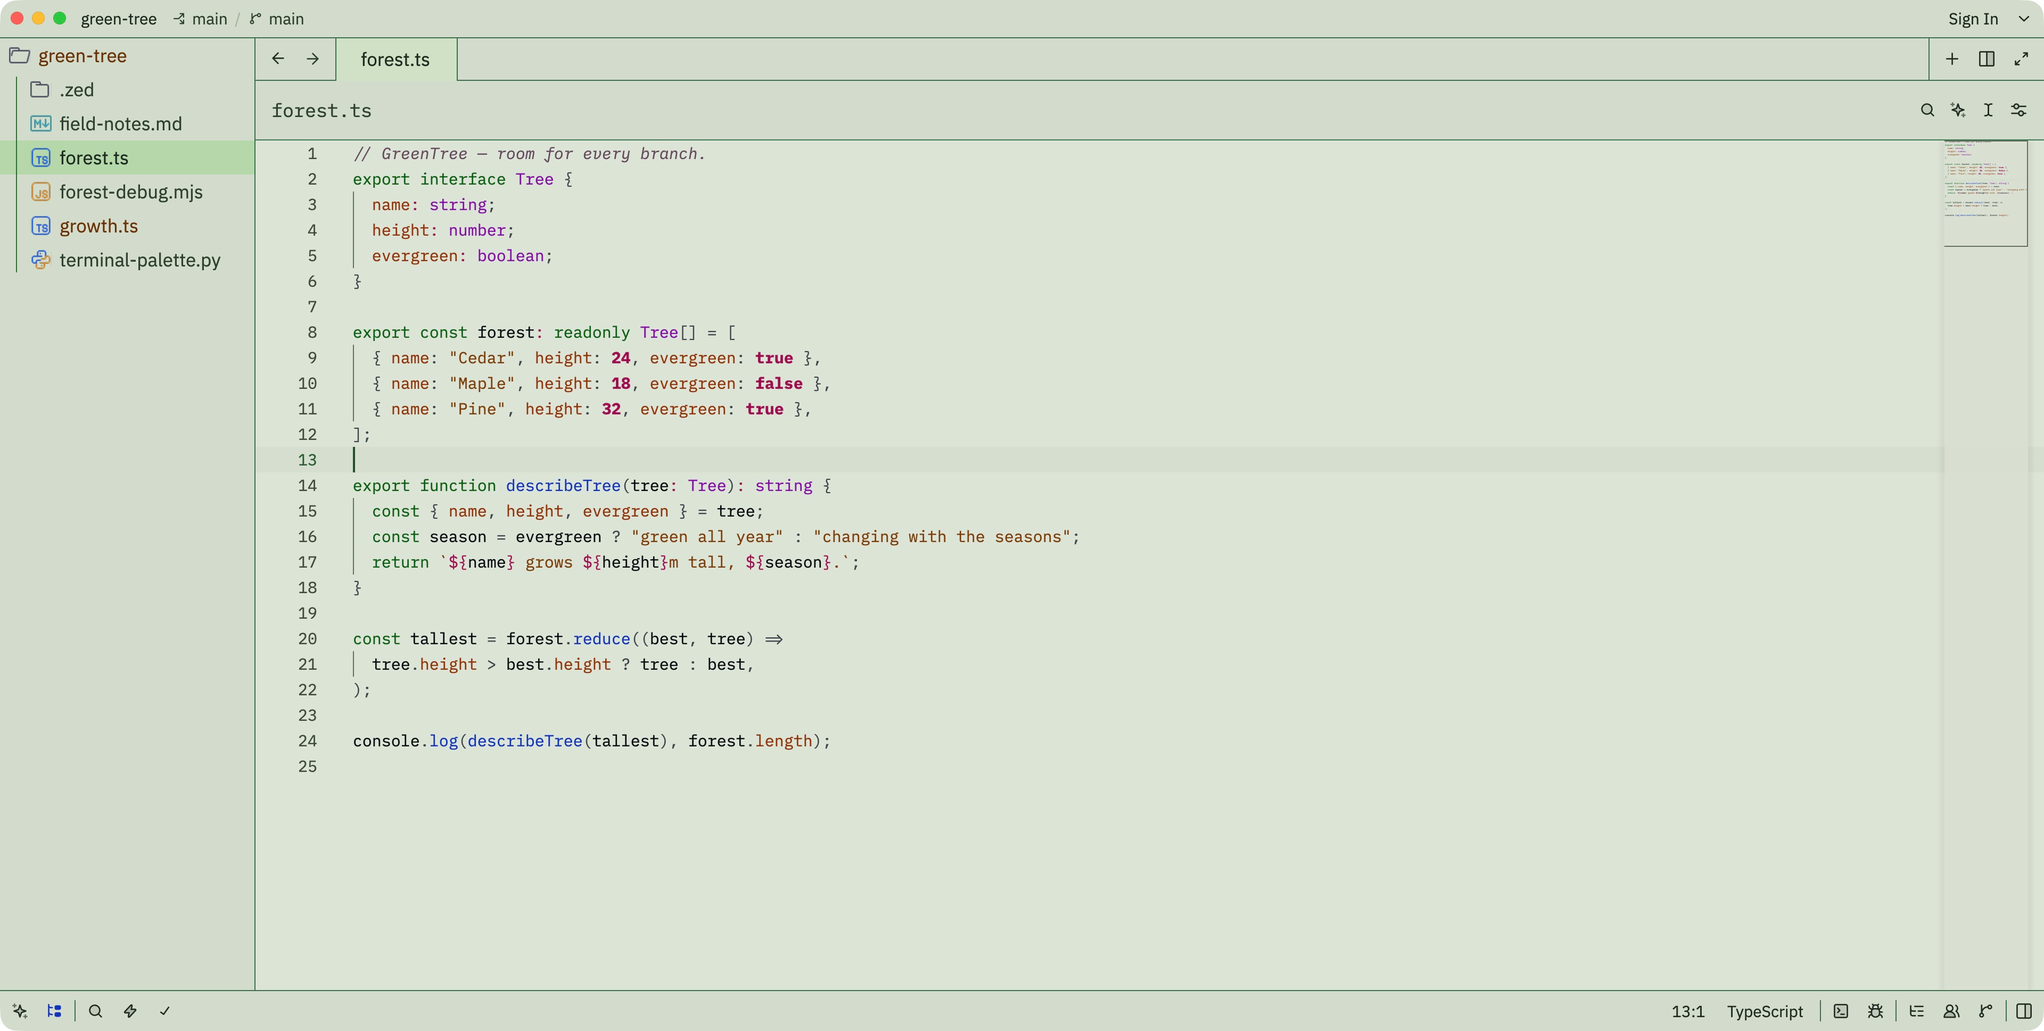
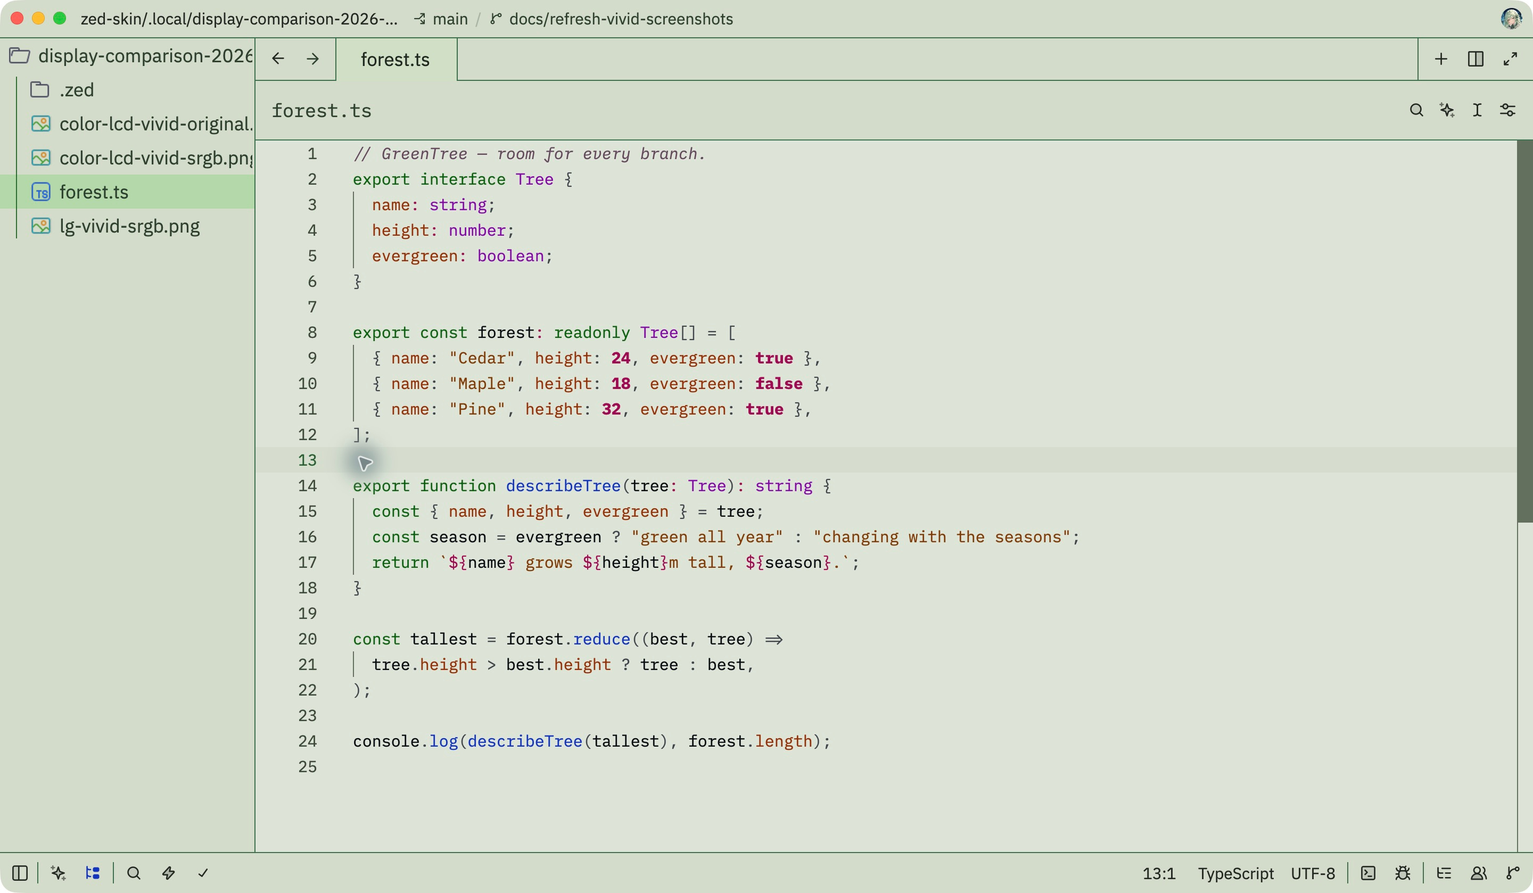
📝 docs(screenshots): use local Vivid previews and simplify documentation
✏ Replace the Day Vivid code preview with a built-in display screenshot, preserving sRGB and existing image links
  ✏ Simplify the three READMEs and color and testing documentation; consolidate screenshot sources and measurement limitations
  ✏ Update manual acceptance records and retain the pending physical-display comparison

diff --git a/docs/screenshots/README.md b/docs/screenshots/README.md
@@ -1,33 +1,30 @@
 # Screenshot gallery
 
-The English, Chinese and Japanese READMEs share these 24 English screenshots:
-six scenes in each of GreenTree's four variants. The editor overviews are visible
-immediately. The other five scenes each have a collapsible two-column comparison,
-ordered Midnight AAA, Night AAA, Day AAA, Day Vivid. The comparison images fill
-their columns without a fixed pixel width. Every preview links to its original.
-Theme links above the overview provide quick navigation between the four variants.
-
-All 24 images were refreshed on **2026-10-25** in **Zed 1.25.3 on macOS
-27.0.1**, using the repository palette at
+The three READMEs share 24 English screenshots: six scenes in each of GreenTree's
+four variants. They were refreshed on **2026-10-25** in **Zed 1.25.3 on macOS
+27.0.1**, using the palette at
 [`7caf432`](https://github.com/yuukiLike/zed-skin/commit/7caf43209904ce663f0f2e9fbe0f154a0b85bfc1).
-This includes the latest Day Vivid keywords, orange properties, muted plum
-comments and Markdown accents. The extension metadata is still **0.11.2**; the
-existing image URLs, including the `v0.11.2/` folder, are retained.
-
-Each scene uses the same English sample and layout across all four variants.
-All images are **3840 × 1938**. Native JPEG originals carry the capture display's
-**LG ULTRAFINE** ICC profile. The published JPEGs are converted from that profile
-to **sRGB IEC61966-2.1**, with the sRGB ICC profile embedded and JPEG quality 95
-without chroma subsampling. There is no manual recoloring, compositing or resizing.
-The originals remain untouched in the ignored local evidence folder. File icons,
-pointer/input indicators and window decorations belong to the capture environment,
-not the theme extension.
-
-The capture session uses a separate Zed user-data directory and a small local Git
-repository. Editor/UI font sizes are 17/18; terminal font size is 16. The theme
-file is an exact copy of `themes/green-tree.json`, SHA-256
+The extension remains **0.11.2**; existing image URLs, including `v0.11.2/`, are retained.
+The captured theme matches `themes/green-tree.json`, SHA-256
[1 lines of base64/hex data omitted]
-The regular Zed configuration and display settings were not changed.
+
+## Capture sources
+
+| Images | Display | Dimensions | Native ICC |
+| --- | --- | --- | --- |
+| Day Vivid editor overview | Built-in Color LCD | 2880 × 1678 | Display |
+| Other 23 images | LG ULTRAFINE | 3840 × 1938 | LG ULTRAFINE |
+
+The Day Vivid overview uses the local capture selected by the user after a
+same-screen comparison. It shows the same code sample in a separate window with
+the regular Zed profile (editor/UI sizes 15/20). The LG session used isolated
+user data and a small Git fixture (editor/UI sizes 17/18; terminal size 16).
+No theme fields, regular Zed settings or display settings were changed.
+
+Published JPEGs are converted from each source ICC to embedded sRGB, at quality
+95 without chroma subsampling. There is no resizing, compositing or manual
+recoloring. File icons, pointer indicators and window decorations belong to the
+capture environment.
 
 | Scene | Midnight AAA | Night AAA | Day AAA | Day Vivid |
 | --- | --- | --- | --- | --- |
@@ -38,37 +35,27 @@ The regular Zed configuration and display settings were not changed.
 | Git diff | [View](v0.11.2/midnight-git-diff.jpg) | [View](v0.11.2/night-git-diff.jpg) | [View](v0.11.2/day-aaa-git-diff.jpg) | [View](v0.11.2/day-vivid-git-diff.jpg) |
 | Terminal and ANSI colors | [View](v0.11.2/midnight-terminal.jpg) | [View](v0.11.2/night-terminal.jpg) | [View](v0.11.2/day-aaa-terminal.jpg) | [View](v0.11.2/day-vivid-terminal.jpg) |
 
-The debugger shows a live Node.js session paused at `debugger;`, with an enabled
-breakpoint, inline values, the selected stack frame and local variables. The Git
-view shows actual uncommitted changes. The terminal shows real normal, bright
-and dim ANSI output, black/white backgrounds, reverse video, Node.js output and
-`git diff` output. Zed's terminal contrast adjustment remains enabled; the image
-therefore includes the editor's adjustment of Day Vivid's black-on-green text.
+The debugger shows a live Node.js pause at `debugger;`, with a green execution
+row, breakpoint, inline values, selected frame and locals. Git views show actual
+uncommitted changes. Terminal captures include normal/bright/dim ANSI, reverse
+video and Zed's enabled contrast adjustment. These scenes do not replace the
+broader [regression checks](../theme-testing.md).
 
-These previews illustrate everyday appearance; the broader regression coverage
-and its limitations are documented in [Theme checks](../theme-testing.md).
-The original 24 captures, setup attempts, isolated demonstration workspace,
-conversion script and per-image hashes/profile measurements remain Git-ignored
-under `.local/readme-refresh-2026-10-25/`. The debug session was stopped and the
-isolated editor instance closed after capture.
+Originals and capture evidence stay Git-ignored under
+`.local/readme-refresh-2026-10-25/` (LG session, on the capture computer) and
+`.local/display-comparison-2026-10-25/` (local capture and comparison).
 
 ## Color across computers
 
-Embedding sRGB makes the published images easier to interpret consistently,
-but it cannot guarantee identical appearance on every physical display.
-The original LG-profile Vivid screenshot's flat editor background is
-approximately RGB `(216, 224, 209)`; after conversion to sRGB it is
-`(220, 228, 213)`, close to the theme's `#DCE4D6` / `(220, 228, 214)`.
-The one-level difference is consistent with the JPEG capture/export precision;
-this is a file-pixel check, not a measurement of the physical display.
-RGB numbers from different ICC spaces should not be compared directly.
-[Apple's color-management explanation](https://developer.apple.com/library/archive/technotes/tn2313/_index.html)
-describes why the profile is part of the color's meaning.
+The LG Vivid overview and local capture were compared after ICC conversion to
+sRGB. A 120,000-pixel flat-background sample measured `(220, 228, 213)` for LG
+and `(221, 228, 215)` for the local lossless conversion. The local published JPEG
+measures `(221, 227, 215)` after encoding; the theme specifies `(220, 228, 214)`.
+Nine syntax samples differed by at most 5/255 per-channel median before that
+final export. These are sampled file pixels, including antialiasing and JPEG
+effects; they do not establish whole-image equality or physical-display accuracy.
 
-For future captures, retain the original file and its ICC profile, preferably
-as lossless PNG, then convert pixels to sRGB before embedding the target profile.
-Assigning a new profile without conversion changes the interpretation of the
-existing pixels. Avoid chat-app recompression for color comparisons.
-The [cross-computer checklist](../../human-todo.md#截图与跨电脑色差) separates
-file differences from display differences. Only this Mac/LG setup was exercised;
-a second computer and calibrated side-by-side display measurements remain pending.
+Retain original ICC profiles, then convert pixels to sRGB rather than replacing
+the profile label. Identical files can still look different across physical
+displays. See [Apple's color-management explanation](https://developer.apple.com/library/archive/technotes/tn2313/_index.html)
+and the [physical-display checklist](../../human-todo.md#截图与跨电脑色差).

diff --git a/human-todo.md b/human-todo.md
@@ -12,61 +12,18 @@ macOS / VS Code 键位（含本机自定义）；`⌘` = Command，`⇧` = Shift
 
 ## 截图与跨电脑色差
 
-**结论：可能存在色差。需要区分截图文件中的颜色差异，以及显示器呈现同一文件时的观感差异。**
+截图文件相近不代表两块实体屏幕观感相同。[截图来源与测量结果](docs/screenshots/README.md#color-across-computers)。
 
-| 比较方式 | 可能出现的差异 | 如何判断 |
-| --- | --- | --- |
-| 同一张原图，在两台电脑上看 | 显示器色域、校准、亮度、白点、观看环境，以及查看软件的色彩管理 | 先核对文件 SHA-256 相同，再比较显示条件；文件相同仍可能看起来不同 |
-| 相同主题，在两台电脑上分别截图 | 捕获链路与 ICC 色彩配置可能不同；字体、缩放、抗锯齿和编辑器设置也会改变像素 | 保留原始 ICC，正确转换到同一色彩空间，再在同一显示器上比较 |
-| 截图经聊天软件、缩略图或另存后再比较 | 重采样、JPEG 压缩或丢失 ICC 配置可能改变像素或其解释 | 使用下载的原图，避免比较聊天预览 |
+- [x] 2026-10-25：将 LG 与本机 Color LCD 的 Vivid 截图按 ICC 转为 sRGB，在同一屏上比较。
+  用户认为两者接近，更喜欢本机版本，并选择本机代码截图发布。
+- [ ] MacBook Air 与 LG：使用相同主题和样例，记录版本、字体/字号、缩放及 ICC，复测绿色关键字与近黑变量。
 
-RGB 数值必须连同色彩空间一起理解。两张图的原始 RGB 不同，不足以证明主题颜色不同；
-同一个十六进制数在不同色彩空间中也不一定表示相同颜色。ICC 色彩管理用于把源图映射到目标显示器，
-但不能保证不同硬件和观看条件下的观感完全一致。
-[Apple 色彩管理说明](https://developer.apple.com/library/archive/technotes/tn2313/_index.html)、
-[Apple 图像色彩配置建议](https://developer.apple.com/design/human-interface-guidelines/color?changes=_5_2)。
+1. 比较同一文件时先核对 SHA-256；分别截图时保留原图与 ICC，优先无损 PNG，转为 sRGB 后再同屏比较。避免聊天软件重压缩。
+2. 实屏对比时暂停 True Tone、Night Shift、自动亮度和色彩滤镜，尽量匹配实际亮度与环境光；相同亮度百分比不代表相同亮度。
+   这些显示效果不能仅凭截图验收。[Apple 显示工作流说明](https://support.apple.com/en-ca/guide/mac-help/mhlp275mr4b19/mac)。
+3. 先看纯背景，再看字形内部与长期使用的可辨性、舒适度，避免将文字边缘抗锯齿当作主题色差。
 
-True Tone 会随环境调整色温，Night Shift 会使显示偏暖，都会影响肉眼判断。
-截图也不能可靠反推出实际屏幕亮度、环境光或所有显示端效果，因此“截图看着一样”不能替代实屏验收。
-做受控比较时先关闭这些自动调整，日常舒适度再按自己的常用设置另行判断。
-[Apple 显示工作流说明](https://support.apple.com/en-ca/guide/mac-help/mhlp275mr4b19/mac)。
-
-### 本次已验证 · 2026-10-25
-
-在一台 macOS 27.0.1、Zed 1.25.3、LG ULTRAFINE 显示器的环境中，
-四款主题各检查了代码、Markdown、搜索与选区、Git 差异、终端和真实暂停的 Node.js 调试器，共 24 张图。
-调试执行行均为绿色；停止调试后执行行与内联值已消失。
-截图使用隔离的 Zed 配置与示例项目，未调整日常编辑器或显示器设置。
-
-原始截图接口输出带 `LG ULTRAFINE` ICC 的 JPEG；原图保存在 Git 忽略的
-`.local/readme-refresh-2026-10-25/raw/`，并非直接的 sRGB 数值。
-以 Vivid 代码图的纯背景像素 `(3000, 1100)` 为例：原图 RGB 是 `(216, 224, 209)`，
-正确转换到 sRGB 后，公开图为 `(220, 228, 213)`，接近主题定义的 `#DCE4D6` / `(220, 228, 214)`。
-这里验证的是文件像素和配置，存在 JPEG 与转换精度的影响，未测量实体显示器的色差值。
-
-README 的 24 张公开图现已统一转换并内嵌 `sRGB IEC61966-2.1`，减少由图片色彩空间不同带来的解读差异。
-转换必须先按原 ICC 计算目标像素，不能只把配置标签改成 sRGB。
-第二台电脑、MacBook Air 与 LG 的受控对比仍未实测，当前不能承诺两台电脑无色差。
-[公开截图与来源](docs/screenshots/README.md)。
-
-### 下一次跨电脑对比
-
-1. 两台电脑使用相同的 `themes/green-tree.json`，记录 `shasum -a 256 themes/green-tree.json`、
-   Zed 版本、字体与字号、缩放、显示器型号和 ICC 配置；重新加载主题后打开同一个代码样例。
-2. 先下载同一张 README 原图，在两台电脑以 100% 查看并核对图片 SHA-256。
-   暂停 True Tone、Night Shift、自动亮度及色彩滤镜，选择合适的显示器配置，尽量匹配实际亮度与环境光。
-   相同的亮度百分比不代表相同的实际亮度。
-3. 两台电脑分别保存原始截图，优先使用无损 PNG 并保留 ICC，避免聊天软件压缩。
-   把两张图按各自的源 ICC 转换到 sRGB，然后放到同一台显示器、同一查看软件中比较。
-   先比较无文字的背景，再看绿色关键字与近黑变量；不要把文字边缘的抗锯齿像素当作主题色。
-4. 同图在两块屏上不同，优先排查显示与查看条件；两份截图在同一屏上仍不同，
-   再排查主题缓存、编辑器设置、ICC 与捕获链路。以实际使用时关键字能否与变量区分、长时间是否舒适作为验收依据。
-
-- [ ] MacBook Air：记录显示配置并比较 Vivid 绿色关键字与近黑变量。
-- [ ] LG：以相同样例、配色文件与受控亮度复测；本次截图不替代用户实屏验收。
-- [ ] 在同一显示器上比较两台电脑保留 ICC 并转换后的原始截图。
-
-记录格式：`电脑 / 显示器｜Zed 与主题哈希｜ICC / 亮度 / 环境｜同图观感｜同屏双图差异｜原图路径`。
+记录：`电脑 / 显示器｜Zed 与主题哈希｜ICC / 亮度 / 环境｜同图观感｜同屏双图差异｜原图路径`。
 
 ## 功能验收
 

diff --git a/docs/theme-testing.md b/docs/theme-testing.md
@@ -95,34 +95,18 @@ cannot give selected and hovered stack frames different fills in this Zed versio
 
 ## README refresh and color profiles · 2026-10-25
 
-All 24 public screenshots were recaptured in Zed 1.25.3 on macOS 27.0.1 with
-the current repository theme, copied byte-for-byte into an isolated Zed
-user-data directory. Each of the four variants was inspected in six scenes:
-TypeScript, source search/selection, rendered Markdown, actual Git changes,
-terminal/ANSI output and a live Node.js pause. The debugger shows the green
-execution row, enabled breakpoint, inline values, selected frame and locals.
-After stopping, the green band and inline values disappeared; the debugger
-retained its last-known variables. The session and isolated editor were closed.
+The gallery covers all four variants in six scenes: TypeScript, search/selection,
+Markdown, Git changes, terminal/ANSI and a live Node.js pause with green execution
+highlights. The LG session confirmed that execution highlights and inline values
+disappeared after stopping. The user selected the built-in Color LCD capture to
+replace the Day Vivid editor overview after comparing both sources in sRGB.
+[Capture notes](screenshots/README.md) retain the source profiles, dimensions,
+theme fingerprint and sampled color differences.
 
-The capture interface returns native JPEGs with the LG ULTRAFINE ICC profile.
-Published copies use an ICC conversion to embedded sRGB, with no layout changes
-or manual recoloring. All 24 exports retain 3840 × 1938 dimensions; their ICC
-profiles, editor-background samples and four debugger-row samples were checked
-against the loaded palette, allowing three 8-bit levels for JPEG/color-conversion
-rounding. The [capture notes](screenshots/README.md) describe the conversion and
-source theme fingerprint. Raw images, the fixture, scripts and a per-image
-hash/profile manifest remain under the ignored
-`.local/readme-refresh-2026-10-25/` directory.
-
-The existing 62 Python tests and enforced four-palette audit pass, and the
-generated contrast report matches the committed report. Advisory REVIEW pairs
-remain advisory. These six presentation scenes do not repeat the earlier
-35-scene regression matrix or validate every hover, conflict, adapter or platform.
-Only one Mac/LG display setup was available; no calibrated color-difference
-measurement or second-computer comparison was performed. The
-[human checklist](../human-todo.md#截图与跨电脑色差) records the distinction and
-the remaining comparison steps. Display settings and the regular Zed profile
-were not changed, and no theme fields were edited during this refresh.
+All 62 Python tests and the enforced four-palette audit pass; the generated report
+matches the committed copy. Advisory REVIEW pairs remain advisory. This screenshot
+refresh changes no theme fields, regular Zed settings or display settings, and
+does not repeat the 35-scene regression matrix or measure physical-display accuracy.
 
 ## Vivid keywords on a dimmer display · 2026-10-24
 

diff --git a/docs/palette-review.md b/docs/palette-review.md
@@ -75,14 +75,12 @@ Normal-surface and highlight-visibility requirements remain enforced; REVIEW
 does not claim that every rendered or stacked state meets its text target.
 See the generated [contrast report](contrast-report.md) and [checks](theme-testing.md).
 
-[Screenshots](screenshots/README.md) were refreshed on 2026-10-25 from the current
-repository palette in Zed 1.25.3 on macOS 27.0.1: 24 English captures covering
-code, Markdown, search/selection, a live debugger, Git diffs and terminal colors
-in all four variants. The READMEs use clickable previews and collapsible galleries.
-Published images are converted from the capture display's ICC profile to embedded
-sRGB; the originals remain in the ignored local evidence folder. File icons
-belong to the capture setup. [Cross-computer comparison](../human-todo.md#截图与跨电脑色差)
-remains necessary for physical-display acceptance.
+[Screenshots](screenshots/README.md) show the current palette in Zed 1.25.3 on
+macOS 27.0.1: 24 English captures across six scenes and all four variants,
+refreshed on 2026-10-25 with embedded sRGB profiles. The Day Vivid editor overview
+uses the user's preferred local Color LCD capture; the other images are from LG.
+File icons belong to the capture setup. Physical-display acceptance remains
+separate from the [screenshot comparison](../human-todo.md#截图与跨电脑色差).
 
 The 2026-10-23 palette has code review and automated color checks. The user
 confirmed the sage background and selected text from their own screenshots.

diff --git a/README.ja.md b/README.ja.md
@@ -9,8 +9,7 @@
 [Midnight AAA](#midnight-aaa) · [Night AAA](#night-aaa) · [Day AAA](#day-aaa) · [Day Vivid](#day-vivid)
 
 すべてのテーマで同じ英語のサンプルを使用しています。画像をクリックすると原寸で表示できます。
-2026-10-25 に現在のリポジトリの配色で撮り直し、最新の Day Vivid を反映しました。配色と文字の太さは[配色メモ](docs/palette-review.md)をご覧ください。
-画像には sRGB カラープロファイルを埋め込んでいますが、ディスプレイによって見え方は変わります。[異なるパソコンでの色の確認](human-todo.md#截图与跨电脑色差)。
+2026-10-25 に現在の配色へ更新しました。[配色メモ](docs/palette-review.md) · [撮影と色について](docs/screenshots/README.md)。
 
 ### Midnight AAA
 
@@ -195,7 +194,7 @@ Zed の **Extensions** で **[GreenTree](https://zed.dev/extensions/green-tree-t
 
 </details>
 
-2026-10-25 に macOS 27.0.1、Zed 1.25.3 で撮影しました。UI とサンプルはすべて英語で、画像には sRGB プロファイルを埋め込んでいます。ファイルアイコンは撮影環境によるものです。[撮影と色について](docs/screenshots/README.md)。
+macOS 27.0.1、Zed 1.25.3 で撮影した英語のサンプルです。画像には sRGB プロファイルを埋め込んでいます。ファイルアイコンは撮影環境によるものです。
 
 ## 配色と検証
 

diff --git a/README.md b/README.md
@@ -9,8 +9,7 @@ Green-focused, high contrast themes for Zed: one light and three dark variants.
 [Midnight AAA](#midnight-aaa) · [Night AAA](#night-aaa) · [Day AAA](#day-aaa) · [Day Vivid](#day-vivid)
 
 The same English sample in every variant. Click any image to view it at full size.
-Refreshed on 2026-10-25 with the current repository palette, including the latest Day Vivid colors. See the [palette notes](docs/palette-review.md).
-Images embed sRGB color profiles; appearance can still vary between displays. [Cross-computer color check](human-todo.md#截图与跨电脑色差).
+Updated to the current palette on 2026-10-25. [Palette notes](docs/palette-review.md) · [Capture and color notes](docs/screenshots/README.md).
 
 ### Midnight AAA
 
@@ -195,7 +194,7 @@ A live Node.js session, paused on the green execution line, with a breakpoint, t
 
 </details>
 
-Captured on 2026-10-25 in Zed 1.25.3 on macOS 27.0.1. All screenshots use English UI and sample content, with embedded sRGB profiles; file icons belong to the capture setup. [Capture and color notes](docs/screenshots/README.md).
+Captured in Zed 1.25.3 on macOS 27.0.1, with English samples and embedded sRGB profiles. File icons belong to the capture setup.
 
 ## Palette and checks
 

diff --git a/README.zh-CN.md b/README.zh-CN.md
@@ -9,8 +9,7 @@
 [Midnight AAA](#midnight-aaa) · [Night AAA](#night-aaa) · [Day AAA](#day-aaa) · [Day Vivid](#day-vivid)
 
 四款外观使用相同的英文示例。点击任意图片可查看原图。
-截图于 2026-10-25 按当前仓库配色更新，包含最新的 Day Vivid 外观。颜色与字重见[配色说明](docs/palette-review.md)。
-图片内嵌 sRGB 色彩配置，但不同显示器上的观感仍可能不同。[跨电脑色差检查](human-todo.md#截图与跨电脑色差)。
+截图于 2026-10-25 按当前配色更新。[配色说明](docs/palette-review.md) · [截图与色彩说明](docs/screenshots/README.md)。
 
 ### Midnight AAA
 
@@ -195,7 +194,7 @@
 
 </details>
 
-截图于 2026-10-25 在 macOS 27.0.1、Zed 1.25.3 中拍摄，界面和示例内容均为英文，图片内嵌 sRGB 色彩配置；文件图标来自截图环境。[截图与色彩说明](docs/screenshots/README.md)。
+截图来自 macOS 27.0.1、Zed 1.25.3，使用英文示例并内嵌 sRGB 色彩配置；文件图标来自截图环境。
 
 ## 配色与检查
 
